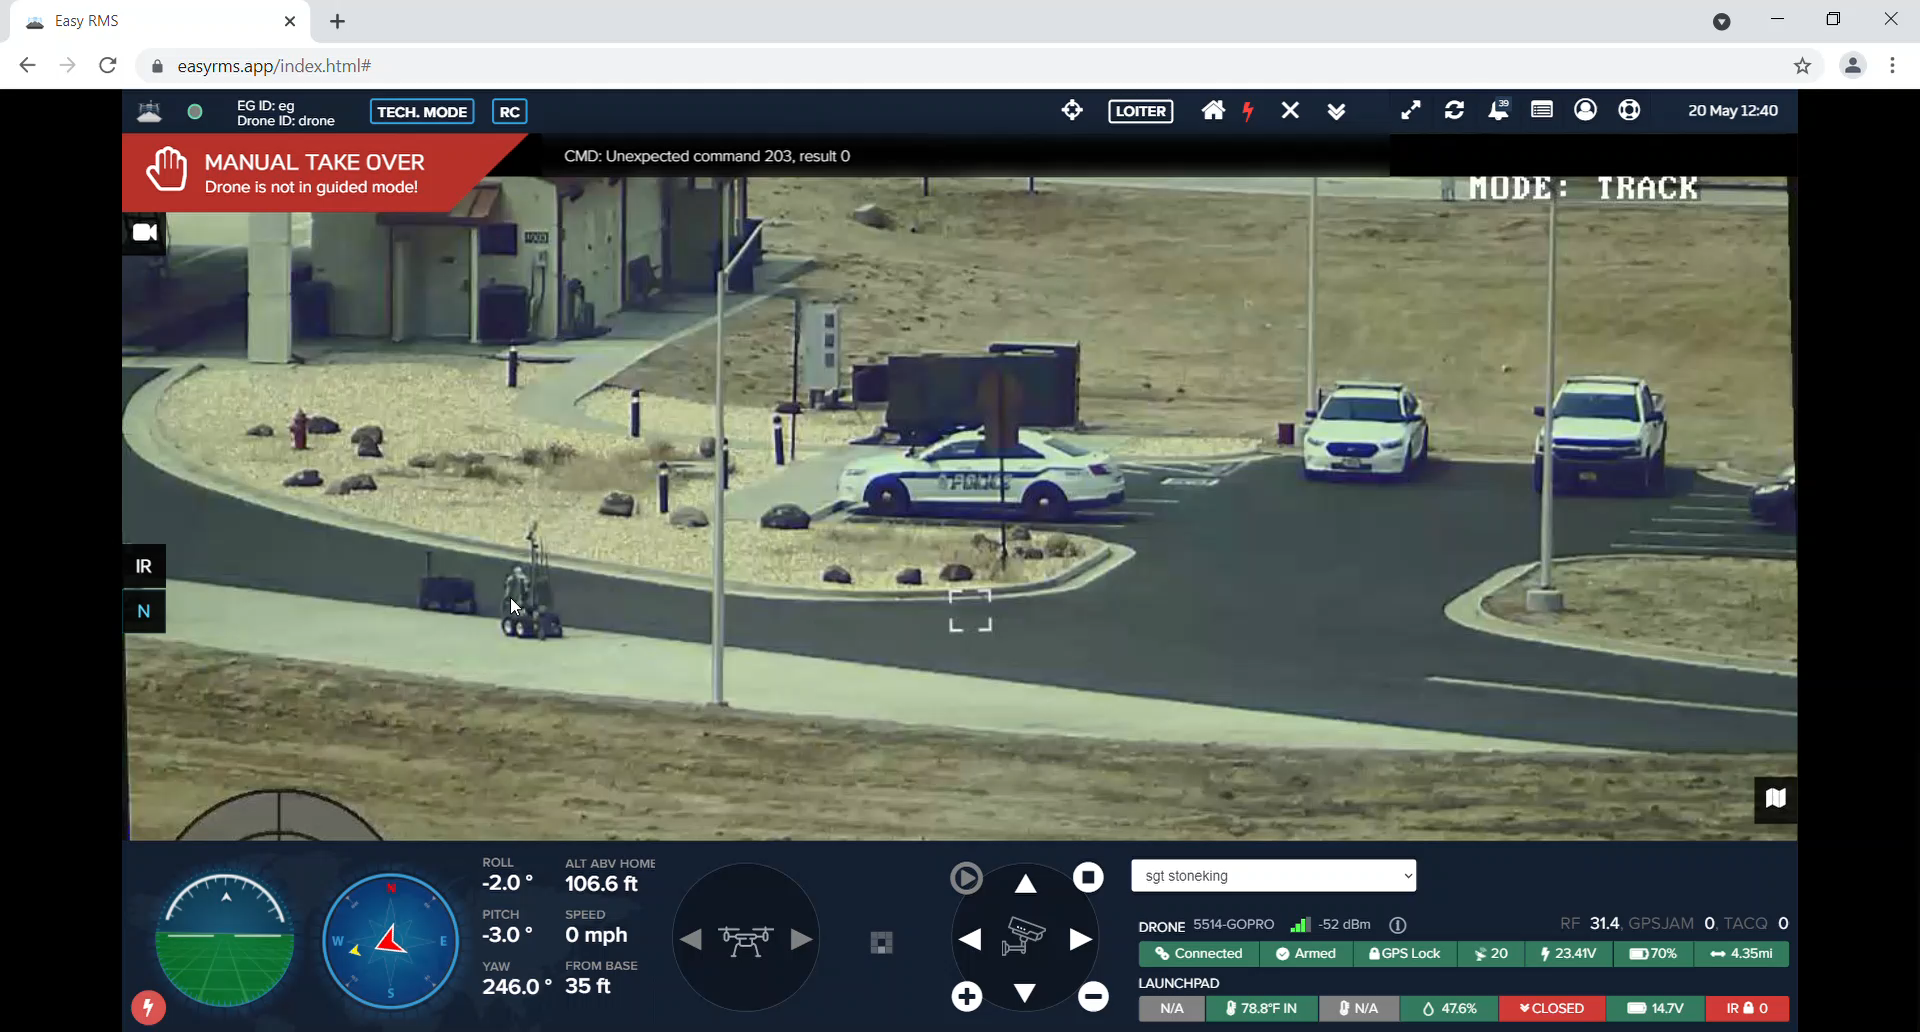
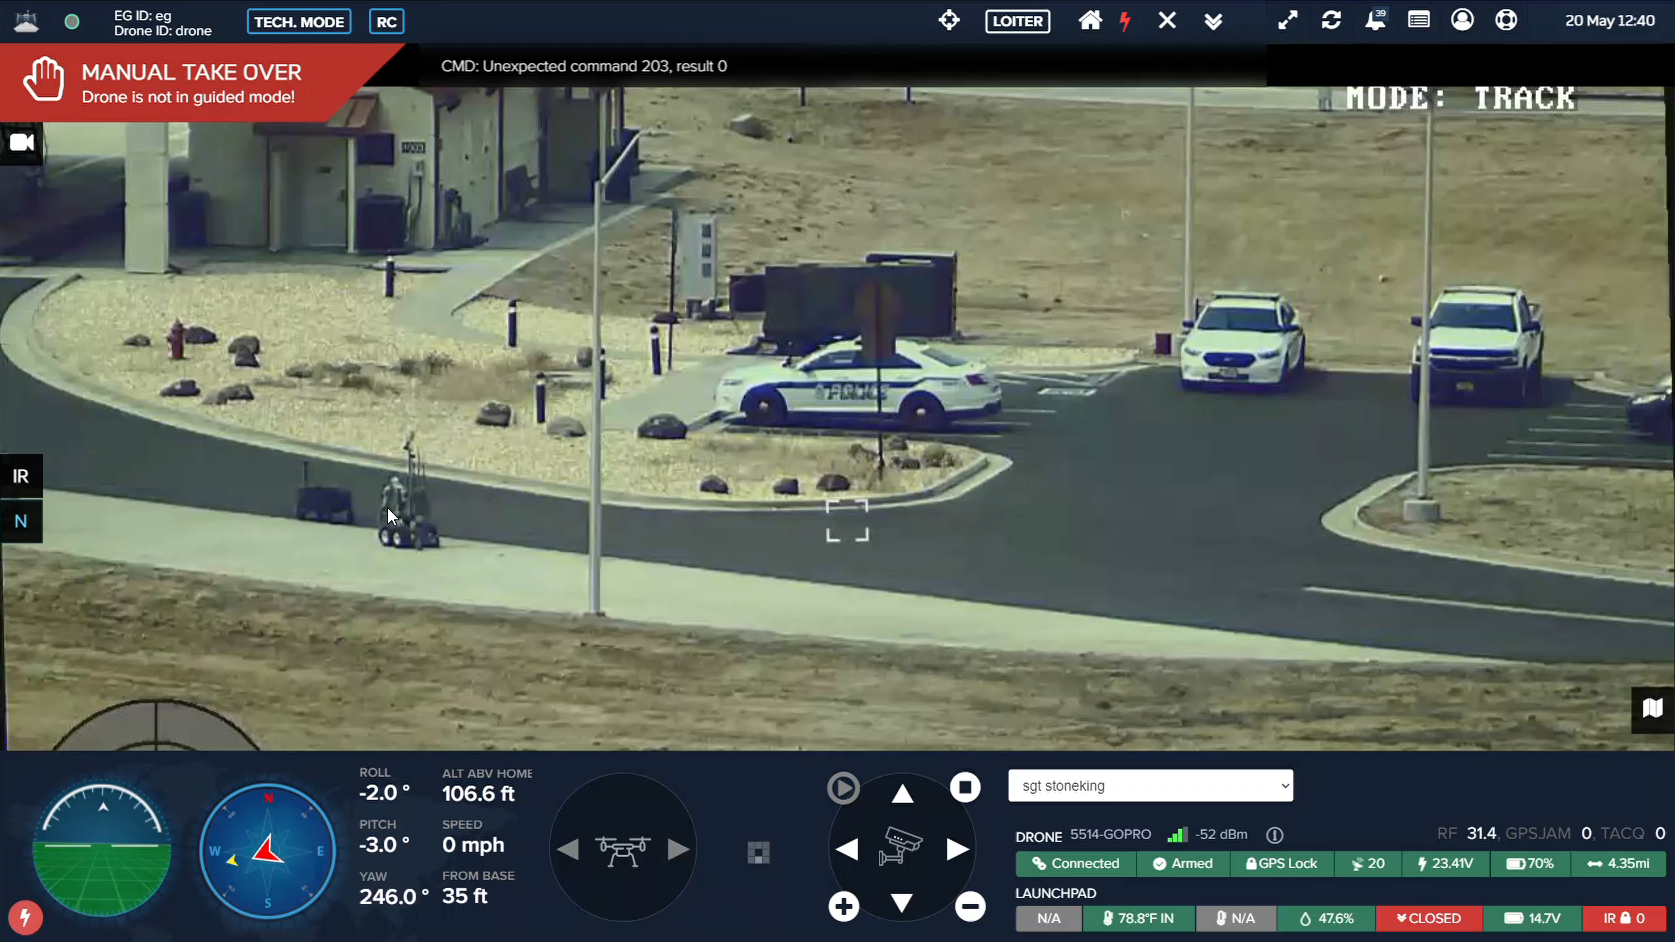
Swapped out SUAS pics to rem OPSEC

diff --git a/suas/index.md b/suas/index.md
@@ -18,7 +18,7 @@ sections:
     - header: Border Perimeter Security & Traffic Management
       descriptor: >
          The 60th Security Forces Squadron (SFS) is using sUAS to conduct perimeter security inspections and to aid in the direction of traffic on base.  These capabilities have enabled SFS to increase the frequency of perimeter inspections and to provide a more efficient means of traffic management.  SFS personnel are now better able to .
-      image: /suas/images/suas-perim.jpeg
+      image: /suas/images/suas-perim.png
       textOrientation: left
   splitColumnsFinal:
     header: Modernize your TTPs with sUAS
